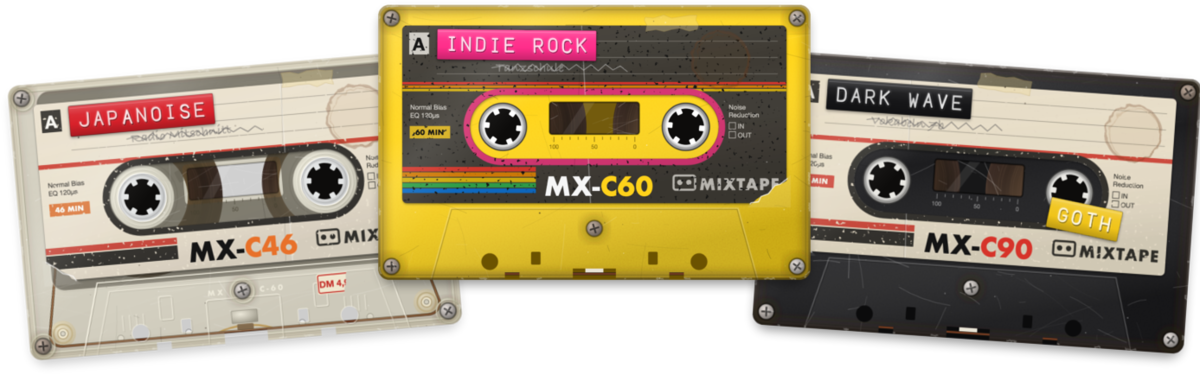
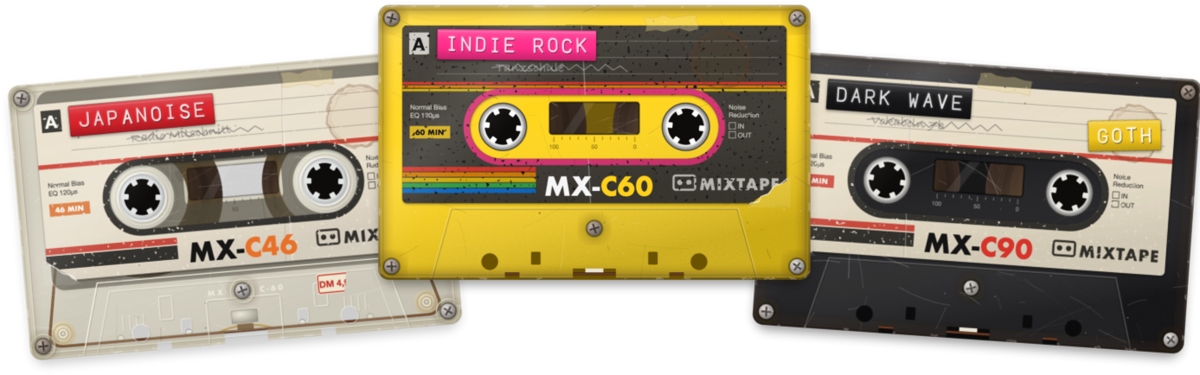
Label tape stays off the hub holes, like on a real cassette
A strip can't be dragged over a reel hub, and a new or retyped strip that
would cover one moves to the nearest free spot. The Free Sampler picture
now shows the GOTH strip clear of the hub.

Changed region(s): [[0.8942, 0.2933, 0.9867, 0.4107], [0.8633, 0.528, 0.9558, 0.6453]]

diff --git a/Sources/Emboss.swift b/Sources/Emboss.swift
@@ -159,6 +159,34 @@ extension Painter {
         return nil
     }
 
+    /// Whether a strip would cover a hub hole: on a real cassette that blocks the deck's spindle,
+    /// so the tape wouldn't play.
+    static func stripCoversHub(_ f: EmbossFrame, _ d: CassetteDesign) -> Bool {
+        let hy = (d.skin?.spec.hubY).map { $0 * mm } ?? hubY
+        let r = 6.0 * mm
+        let a = -f.angle * .pi / 180
+        for c in [CGPoint(x: hubL.x, y: hy), CGPoint(x: hubR.x, y: hy)] {
+            let dx = c.x - f.center.x, dy = c.y - f.center.y
+            let lx = dx * cos(a) - dy * sin(a), ly = dx * sin(a) + dy * cos(a)
+            let nx = min(max(lx, -f.size.width / 2), f.size.width / 2), ny = min(max(ly, -f.size.height / 2), f.size.height / 2)
+            if hypot(lx - nx, ly - ny) < r { return true }
+        }
+        return false
+    }
+
+    /// The nearest place up or down where the strip leaves the hub holes free.
+    static func clearOfHubs(_ f: EmbossFrame, _ d: CassetteDesign) -> EmbossFrame {
+        guard stripCoversHub(f, d) else { return f }
+        for step in stride(from: 4.0, through: 160, by: 4) {
+            for sign in [1.0, -1.0] {
+                var g = f
+                g.center.y = f.center.y + sign * step
+                if g.center.y > 8, g.center.y < H - 8, !stripCoversHub(g, d) { return g }
+            }
+        }
+        return f
+    }
+
     static func embossContains(_ f: EmbossFrame, _ p: CGPoint) -> Bool {
         let a = -f.angle * .pi / 180
         let dx = p.x - f.center.x, dy = p.y - f.center.y

diff --git a/Sources/Deck.swift b/Sources/Deck.swift
@@ -690,8 +690,10 @@ final class Deck: NSObject, ObservableObject {
                     t.cells = embossDraft
                     t.color = editingColor
                     // Pressed in place, or below the title: it stays exactly there.
-                    if editAnchor != nil || i > 0 {
-                        let f = Painter.stripFrame(t, index: i, cells: embossDraft, design: doc.design, anchor: editAnchor)
+                    let placed = Painter.stripFrame(t, index: i, cells: embossDraft, design: doc.design, anchor: editAnchor)
+                    if editAnchor != nil || i > 0 || Painter.stripCoversHub(placed, doc.design) {
+                        // Stuck where it was pressed – unless that is over a hub hole, which it must leave free.
+                        let f = Painter.clearOfHubs(placed, doc.design)
                         t.x = f.center.x
                         t.y = f.center.y
                         t.angle = f.angle
@@ -807,6 +809,8 @@ final class Deck: NSObject, ObservableObject {
             f.center.x = min(max(f.center.x + p.x - d.start.x, 0), Painter.W)
             f.center.y = min(max(f.center.y + p.y - d.start.y, 0), Painter.H)
         }
+        // A strip can't go over a hub hole: it stops at the edge.
+        if Painter.stripCoversHub(f, doc.design) { return }
         // The left end is what stays put while pressing, so the strip keeps growing from there.
         objectWillChange.send()
         editAnchor = Painter.anchor(of: f)
